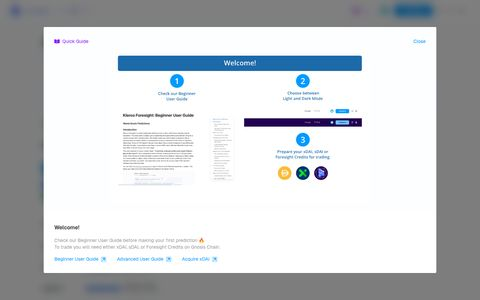
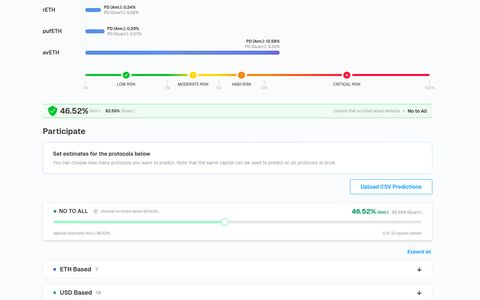
Hub: a today -> proposed row above the six cards, the live sites (October 2026) over the six screens designed here, one column per interface
Claude-Session: https://claude.ai/code/session_01E8PFBKhf8omV51GHaLqJtS

diff --git a/index.html b/index.html
@@ -87,6 +87,23 @@ if(location.protocol!=="file:")["geist-latin","geist-mono-latin","instrument-ser
 @media (max-width: 640px) { .hb-tour { grid-template-columns: 1fr; } }
 @media (max-width: 480px) { .hb-poster__foot .s-row { flex-direction: column; align-items: stretch; width: 100%; } .hb-poster__foot .s-row .s-btn { width: 100%; justify-content: center; } }
 .hb-poster__art { overflow: hidden; }
+/* today -> proposed: the live sites over our six screens */
+.hb-today { margin-bottom: 28px; }
+.hb-today__head { display: flex; align-items: flex-end; justify-content: space-between; gap: 10px 32px; flex-wrap: wrap; margin-bottom: 14px; }
+.hb-today__head .s-spec { display: block; margin-bottom: 8px; }
+.hb-today__head p { color: var(--text-2); font-size: 14px; line-height: 1.5; font-weight: 500; max-width: 58ch; }
+.hb-today__grid { display: grid; grid-template-columns: repeat(6, minmax(0, 1fr)); gap: 12px; }
+.hb-today__col { margin: 0; display: flex; flex-direction: column; align-items: center; gap: 5px; min-width: 0; }
+.hb-today__img { display: block; width: 100%; height: auto; aspect-ratio: 8 / 5; object-fit: cover; border-radius: 8px; background: var(--ink); box-shadow: inset 0 0 0 1px var(--line); }
+.hb-today__img--now { opacity: .82; filter: saturate(.8); }
+.hb-today__arrow { display: inline-flex; color: var(--text-3); }
+.hb-today__arrow svg { width: 14px; height: 14px; }
+.hb-today__col a { display: block; width: 100%; border-radius: 8px; }
+.hb-today__col a:hover .hb-today__img, .hb-today__col a:focus-visible .hb-today__img { box-shadow: inset 0 0 0 1.5px var(--violet-2); }
+.hb-today__cap { margin-top: 3px; font-family: var(--font-mono); font-size: 11px; letter-spacing: .05em; text-transform: uppercase; color: var(--text-3); text-align: center; white-space: nowrap; overflow: hidden; text-overflow: ellipsis; max-width: 100%; }
+.hb-today__cap b { color: var(--violet-3); font-weight: 400; }
+@media (max-width: 1100px) { .hb-today__grid { grid-template-columns: repeat(3, minmax(0, 1fr)); } }
+@media (max-width: 640px) { .hb-today__grid { grid-template-columns: repeat(2, minmax(0, 1fr)); gap: 10px; } }
 @media (max-width: 640px) { .hb-tour__url, .hb-card__url { display: none; } }
 /* kit -> concept: a crop of the Electric Foundation web frame beside the same component, live */
 .hb-fid-head { margin: 28px 0 14px; max-width: 72ch; }
@@ -146,6 +163,13 @@ if(location.protocol!=="file:")["geist-latin","geist-mono-latin","instrument-ser
     <div class="s-container">
       <div class="s-section-head">
         <div><span class="s-spec">Six labelled demos</span><h2 id="hb-int" class="t-h2">The interfaces</h2></div>
+      </div>
+      <div class="hb-today" id="hb-today">
+        <div class="hb-today__head">
+          <div><span class="s-spec">Today → proposed</span><h3 class="t-h3">Six products from six companies, then one shell and one dataset</h3></div>
+          <p>Top row: the six live sites as they are in October 2026, shown for comparison. Bottom row: the same six as designed here; open any of them.</p>
+        </div>
+        <div class="hb-today__grid" id="hb-today-grid"></div>
       </div>
       <div class="hb-cards" id="hb-cards"></div>
     </div>
@@ -229,6 +253,17 @@ if(location.protocol!=="file:")["geist-latin","geist-mono-latin","instrument-ser
         S.el("span", { class: "hb-card__url", text: url }))));
     cards.appendChild(card);
     MOTIF[a.id](a.id === "opportunity" ? art : host);
+  });
+
+  // today -> proposed: the live site (captured October 2026) over this concept's screen, one column per interface
+  var tg = document.getElementById("hb-today-grid");
+  S.apps.forEach(function (a) {
+    tg.appendChild(S.el("figure", { class: "hb-today__col" },
+      S.el("img", { class: "hb-today__img hb-today__img--now", attrs: { src: "assets/today/" + a.id + ".jpg", alt: "Today: " + a.host + " as it is in October 2026", width: "480", height: "300", loading: "lazy", decoding: "async" } }),
+      S.el("span", { class: "hb-today__arrow", html: S.icon("chevron-down", 14), attrs: { "aria-hidden": "true" } }),
+      S.el("a", { href: a.path, attrs: { "aria-label": "Open the " + a.name + " demo" } },
+        S.el("img", { class: "hb-today__img", attrs: { src: "assets/ours/" + a.id + ".jpg", alt: "Proposed: " + a.name + " on the Electric Foundation identity", width: "480", height: "300", loading: "lazy", decoding: "async" } })),
+      S.el("figcaption", { class: "hb-today__cap" }, S.el("b", { text: a.n }), " " + a.host)));
   });
 
   // the connected thread (all numbers from the shared sample dataset)
